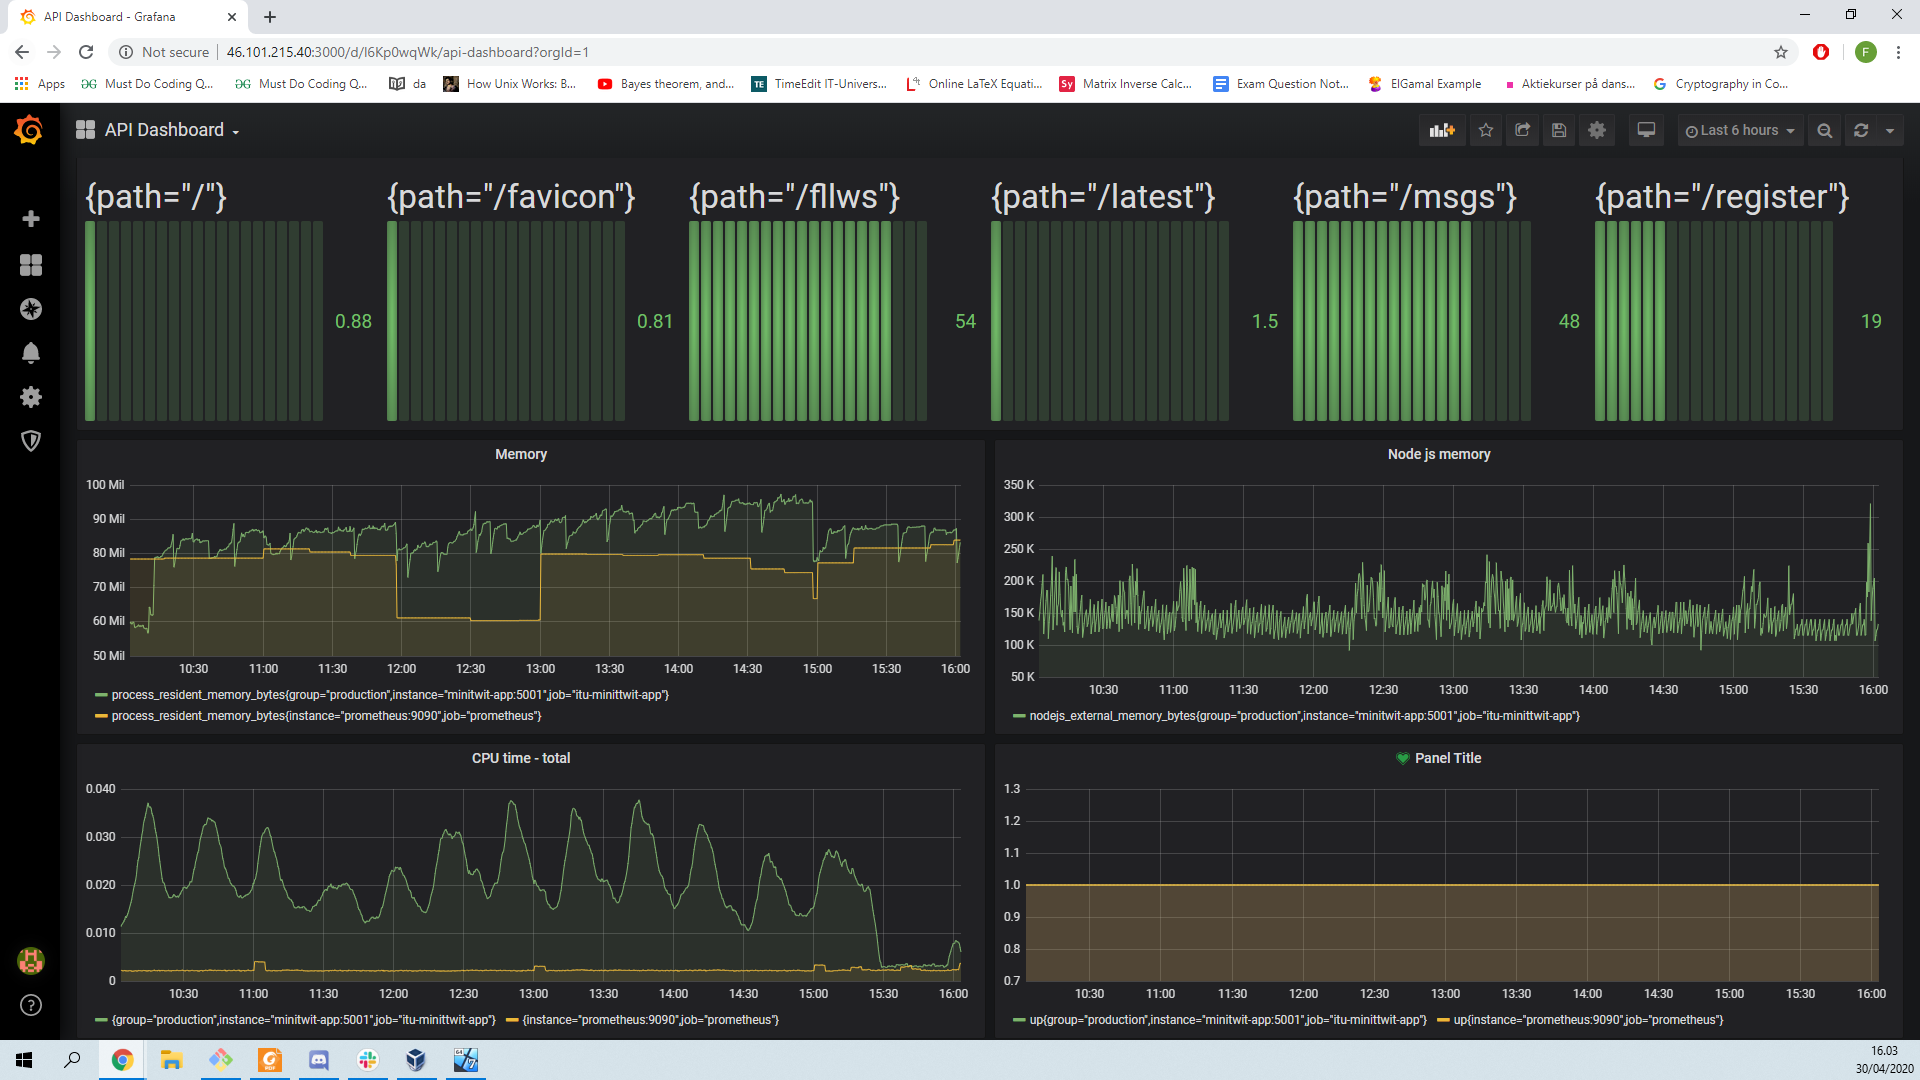
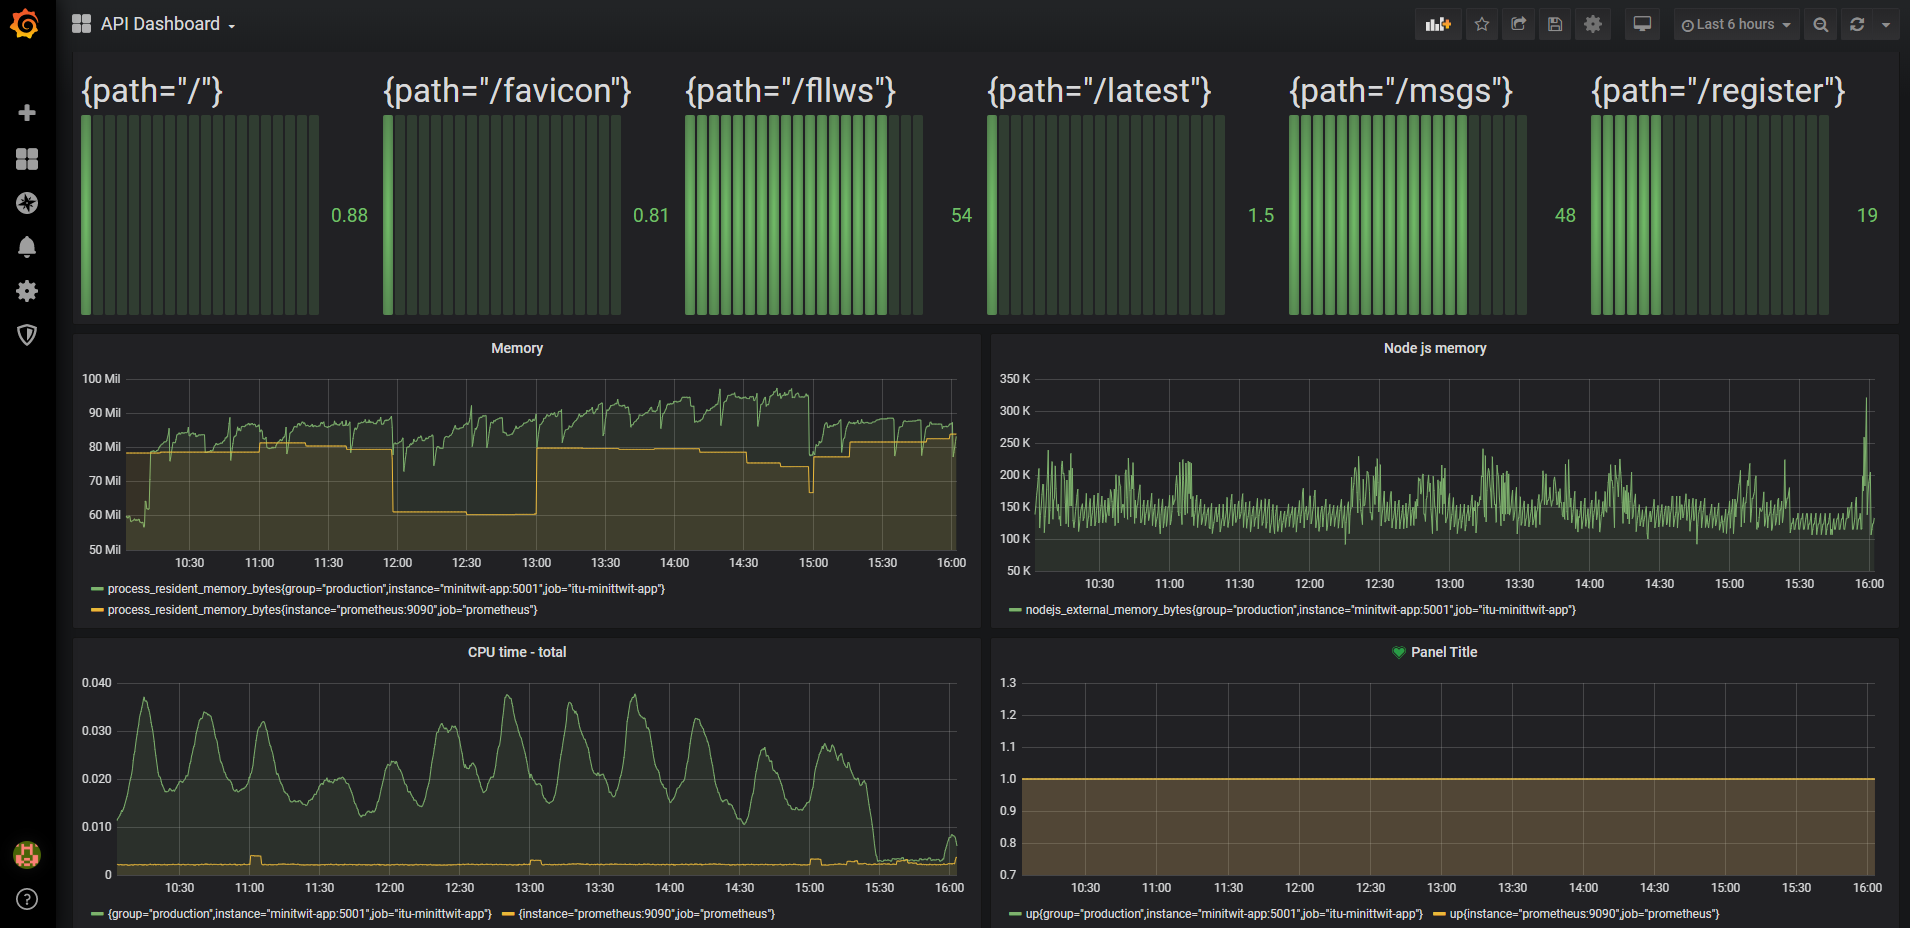
inserted images in 304

diff --git a/report/chapters/304_monitoring_and_logging.md b/report/chapters/304_monitoring_and_logging.md
@@ -1,35 +1,39 @@
 ## 3.04 Monitoring and Logging
 
-**Lecture notes**
+<!-- **Lecture notes**
 - manual vs reactive vs proactive x
 - whitebox vs blackbox monitoring x
 - active vs passive x
-- application monitoring x
+- application monitoring x -->
 
 ### Monitoring
 In order to monitor our system, we make use of whitebox application monitoring. That is, we monitor the machine on which our application is running as well as the requests the API recieves and the responses the API sends. 
 
-We monitor the following metrics:
+We monitor the following metrics, which are shown in the Grafana dashboard:
 - Whether the system is running
 - The total number of requests for each endpoint
-- The rate of requests to the system
+- The rate of requests to the system for each endpoint
 - Number of responses we send for each status code and endpoint
 - Average response time for each endpoint and status code
 - CPU usage
 - Memory usage
 
+![Grafana Dashboard](../images/sc_grafana_dashboard.png)
+
+![Grafana Dashboard](../images/sc_grafana_dashboard_2.png)
+
 The monitoring for this project has been reactive in the sense that our monitoring is autmotatic but we do not monitor our system with a focus on the business outcomes, quality of service and customer experience as is done in proactive mointoring. We mostly used monitoring for making sure our system was running as expected and to check the efficiency of each endpoint in our system. Our monitoring was, however, still manual in the sense that we had to check our monitoring dashboard to get information about the state of our system. This caused some problems that we will discuss later.
 
 If we had actual users we would had used more energy on monitoring the business logic of our system instead of just the application. We did not feel the need to monitor business logic for this project as our only user was the simulator. In order to optimize the results for the simulator we had to ensure that our application was running efficiently which we checked with our application monitoring. 
 
-Because of the data about our application from the simulator we did not do any blackbox monitoring - the figures on the course Github page acted as blackbox testing of our system. If we had not had the simulator data we should setup some monitoring from outside our system to see that we responded correctly to requests.
+Because of the data about our application from the simulator we did not do any blackbox monitoring - the figures on the course Github page acted as blackbox testing of our system. These figures showed that we were sending the expected response codes to the requests. If we had not had the simulator data we should setup some monitoring from outside our system to see that we responded correctly to requests.
 
 Monitoring our system did not help us that much for this project as for the majority of the project duration not many unusual things were happening to our system or the simulator sending requests. The monitoring would probably have been more useful for a *real* project, for which we could analyze the behaviour of our users and how our system would handle different amounts of load. 
 
-Monitoring could, however, have been very helpful in the last weeks of the project when we did not realize our system had been down for days. If we had setup monitoring to notify us when the app was is down, we would have noticed much sooner. After we realized our system had been down without us noticing we made Grafana send a mail to us in case our system would not respond for some seconds.
+Monitoring could, however, have been very helpful in the last weeks of the project when we did not realize our system had been down for days. If we had setup monitoring to notify us when the app was down, we would have noticed much sooner. After we realized our system had been down without us noticing we made Grafana send a mail to us in case our system would not respond for some seconds. The system being down unnoticed in described further in section 4.00.
 
 ### Logging
-
+Besides monitoring the system we also use logging to keep track of how the system is used and errors in the system. 
 
 We log the following:
 - The requests we receive - what endpoint was requested
@@ -37,7 +41,9 @@ We log the following:
 - Any exceptions that are thrown in the code
 - If we receive an unauthorized request, we log the credentials used by the request - if any. This allows us to detect brute force login attacks on the system.
 
-The logging did not help us that much for this project as we already had access to most of the data through our monitoring. We could have logged the call time of the individual functions in our code to get a better idea of exactly where to improve our system. In this way the logging would provide some data that the monitoring could not - besides exceptions and unauthorized access. 
+The logging did not help us that much for this project as we already had access to most of the data through the monitoring. The logging kept track of exceptions thrown in the code and unauthorized access, which the monitoring did not. The tracking of unauthorized accesses was useful when we had to try to detect any attacks on our system as part of the security assessment. There were only very few unauthorized accesses, though - all without credentials.
+
+We could have logged the call time of the individual functions in our code to get a better idea of exactly where to improve our system. In this way the logging would provide some data that the monitoring could not - besides exceptions and unauthorized access. 
 
 ---
 [ [prev page](../chapters/303_dev_process_and_tools.md) | [table of content](../table_of_content.md) | [next page](../chapters/305_sec_assessment.md) ]
